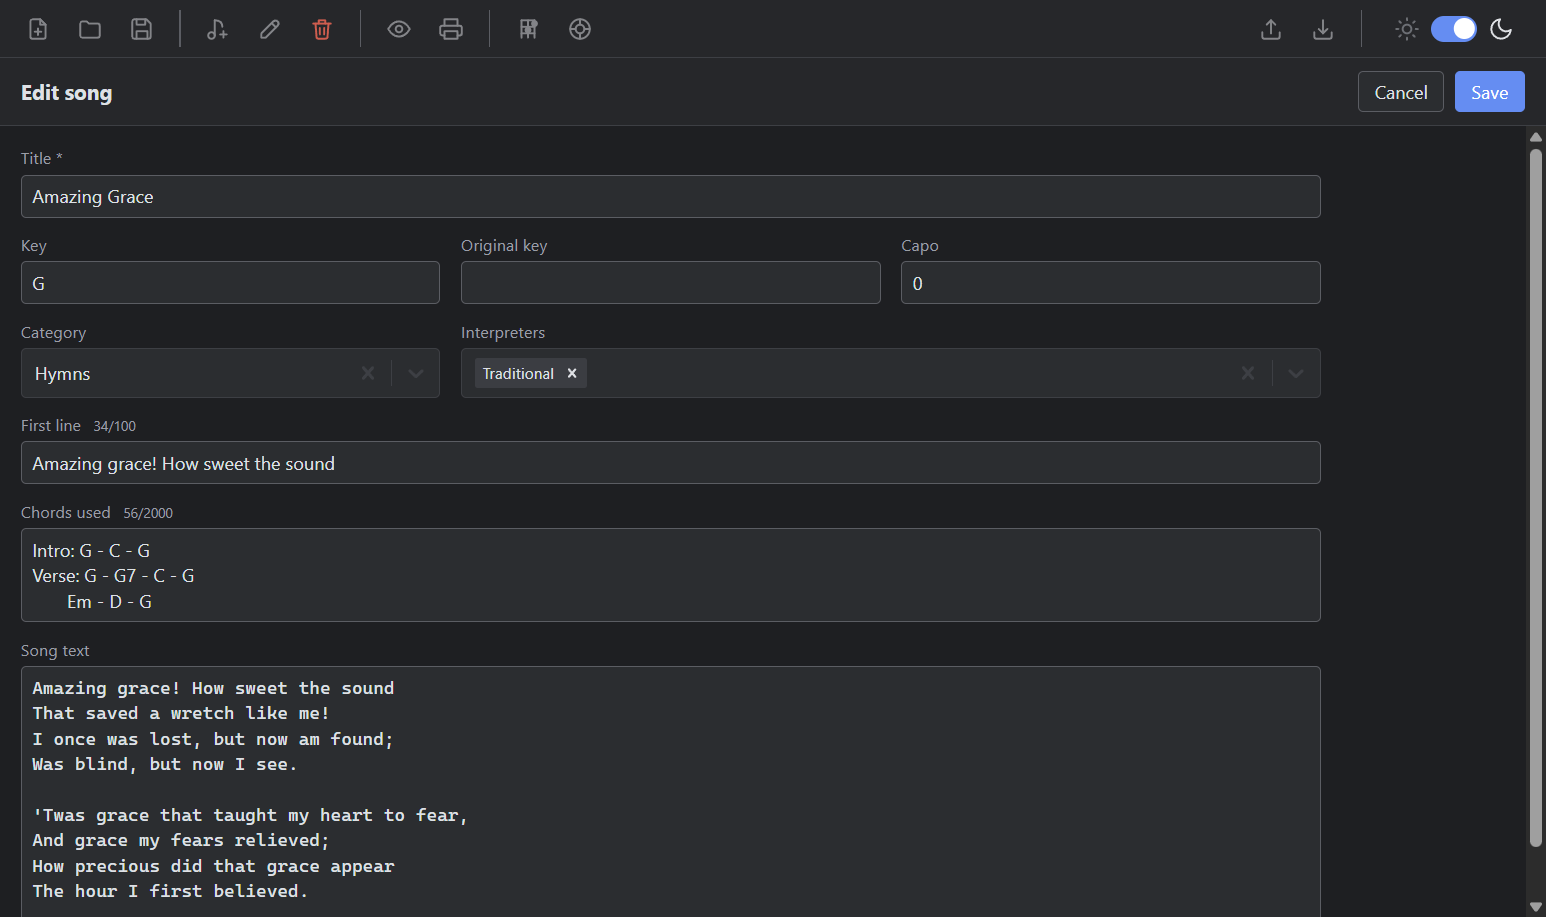
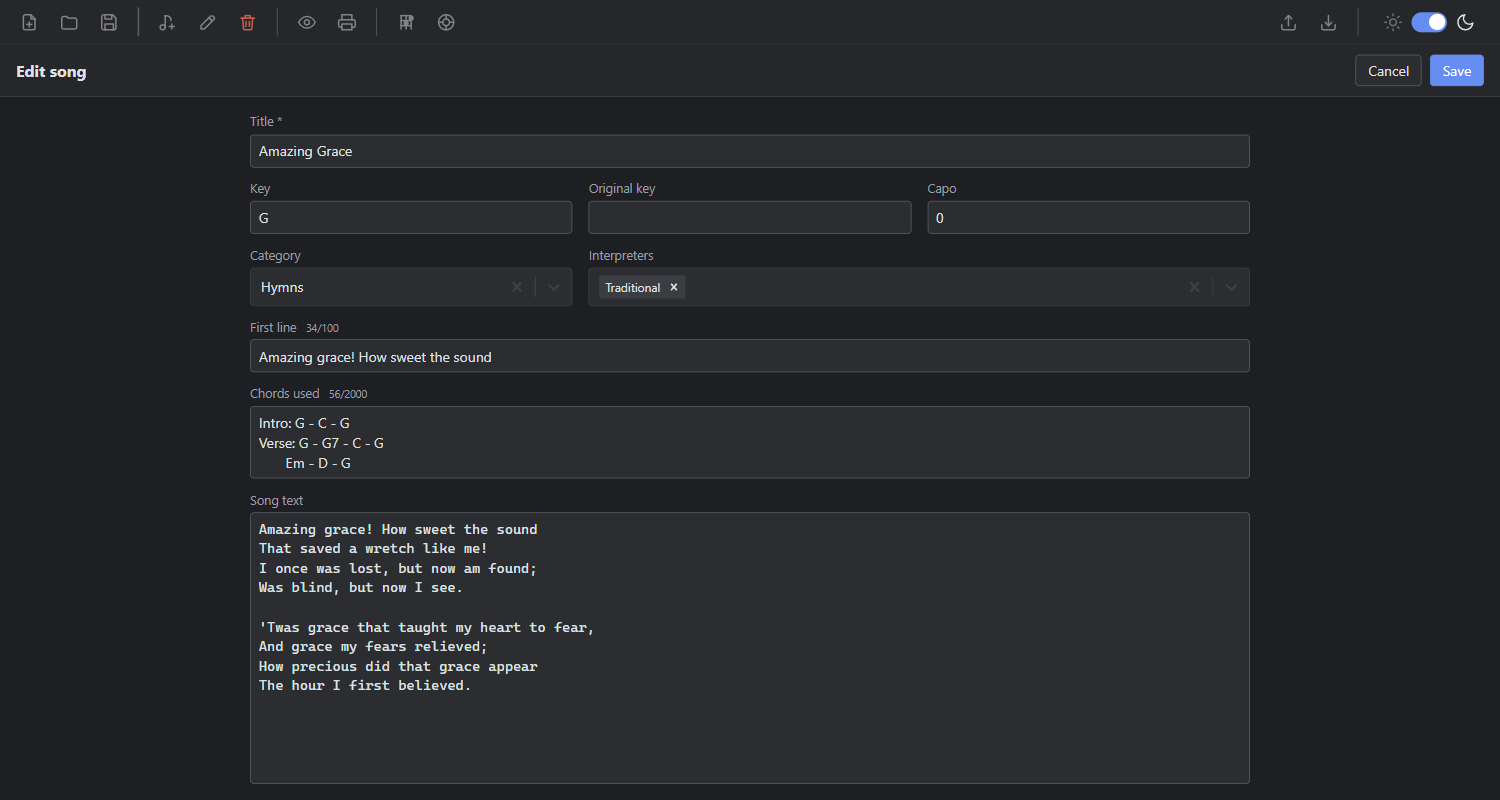
Release 0.1.1: centred song editor, smaller chord diagrams, copyright metadata

diff --git a/src/renderer/src/styles.css b/src/renderer/src/styles.css
@@ -549,6 +549,7 @@ textarea {
   grid-template-columns: repeat(3, minmax(0, 1fr));
   gap: 12px 16px;
   max-width: 1000px;
+  margin: 0 auto;
   min-height: 100%;
   grid-template-rows: repeat(5, auto) 1fr;
 }
@@ -655,14 +656,25 @@ textarea {
 }
 
 .sheet-used-chords {
-  margin-bottom: 24px;
+  margin-bottom: 20px;
   break-inside: avoid;
 }
 
-.sheet-used-chords h2 {
-  margin: 0 0 8px;
-  font-size: 14px;
-  color: var(--text-muted);
+/* The rule above leaves 24px; the diagrams sit closer to it. */
+.sheet-rule + .sheet-used-chords {
+  margin-top: -12px;
+}
+
+.sheet-used-chords .chord-grid {
+  gap: 6px 10px;
+}
+
+.sheet-used-chords .chord-card {
+  width: 62px;
+}
+
+.sheet-used-chords .chord-card figcaption {
+  font-size: 13px;
 }
 
 .chord-grid {
@@ -962,7 +974,6 @@ textarea {
     fill: #fff;
   }
 
-  .sheet-used-chords h2,
   .chord-missing {
     color: #000;
   }

diff --git a/src/renderer/src/components/SongPreview.tsx b/src/renderer/src/components/SongPreview.tsx
@@ -70,7 +70,6 @@ export function SongSheet({ song }: { song: SongDetail }): React.JSX.Element {
       <hr className="sheet-rule" />
       {usedChords.length > 0 && (
         <section className="sheet-used-chords">
-          <h2>Chords used</h2>
           <div className="chord-grid">
             {usedChords.map((chord) => (
               <ChordDiagram key={chord.key} chord={chord} />

diff --git a/__documentation/tutorial-first-song.md b/__documentation/tutorial-first-song.md
@@ -55,8 +55,8 @@ The list filters on every keystroke. The search covers the whole file and ignore
 ## 4. Preview, chord diagrams and print
 
 1. Select the song in the list.
-2. Choose **Preview song** (toolbar, or `Ctrl+Shift+P`). The sheet shows the title, the interpreters, the capo (only if it is greater than 0), a **Chords used** section, the chords text and the lyrics.
-3. Look at the **Chords used** section. It shows a diagram for each chord of your chords text, here G, C, G7, Em and D. Each chord appears only once, however often you use it.
+2. Choose **Preview song** (toolbar, or `Ctrl+Shift+P`). The sheet shows the title, the interpreters, the capo (only if it is greater than 0), a row of chord diagrams, the chords text and the lyrics.
+3. Look at the chord diagrams above the chords text. There is one for each chord of your chords text, here G, C, G7, Em and D. Each chord appears only once, however often you use it.
 4. Choose **Print song** (toolbar, or `Ctrl+P`) to open the system print dialog.
 
 ![The preview sheet with chord diagrams](images/song-preview.png)

diff --git a/__documentation/how-to-use-chord-diagrams.md b/__documentation/how-to-use-chord-diagrams.md
@@ -23,9 +23,9 @@ For the exact notation rules, see [Reference: Chord notation and diagrams](refer
 
 3. Choose **Save**, then **Preview song**.
 
-The **Chords used** section above the chords text now shows one diagram for each distinct chord. A chord used in the intro, the verse and the chorus is shown once. The chords text itself is printed exactly as you wrote it.
+The chord diagrams now appear above the chords text, one for each distinct chord. A chord used in the intro, the verse and the chorus is shown once. The chords text itself is printed exactly as you wrote it.
 
-![The preview sheet with the Chords used section](images/song-preview.png)
+![The preview sheet with chord diagrams](images/song-preview.png)
 
 ## Fix a chord that does not appear
 

diff --git a/__documentation/reference-ui-and-shortcuts.md b/__documentation/reference-ui-and-shortcuts.md
@@ -98,7 +98,7 @@ Buttons: **Cancel** and **Save**.
 - Title (26 px).
 - Interpreters on the left, "Capo: N" on the right (only if the capo is greater than 0), 14 px.
 - A rule.
-- **Chords used**: one chord diagram for each distinct chord found in the chords text. Hidden if no chord is found. See [Chord notation and diagrams](reference-chord-notation-and-diagrams.md).
+- Chord diagrams (small, without a heading): one for each distinct chord found in the chords text. Hidden if no chord is found. See [Chord notation and diagrams](reference-chord-notation-and-diagrams.md).
 - Chords text (bold, monospace), exactly as entered.
 - Song text (monospace). Guitar tabs in the song text are drawn as tablature, see [Tab notation](reference-tab-notation.md).
 
